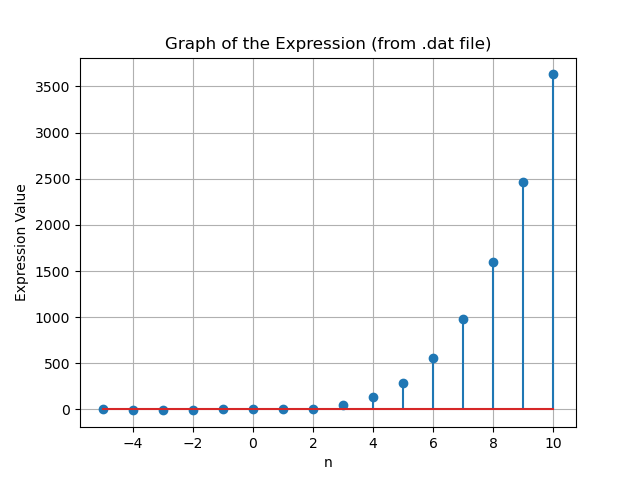
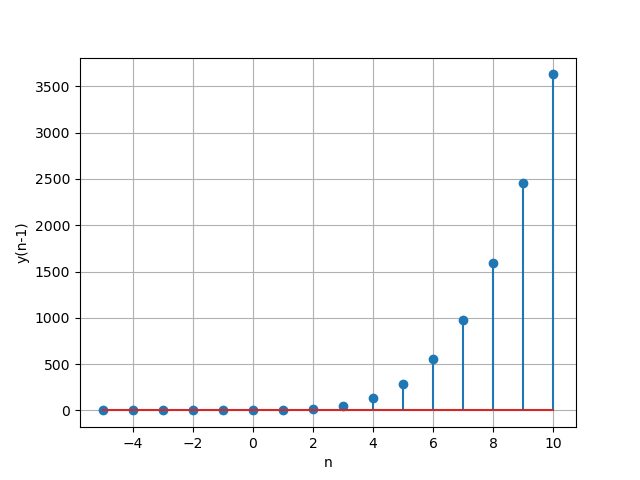
third commit

diff --git a/Assignment3/codes/plot.py b/Assignment3/codes/plot.py
@@ -1,25 +1,14 @@
 import matplotlib.pyplot as plt
+import numpy as np
 
-# Read data from the .dat file
-file_path = 'data3.dat'
-with open(file_path, 'r') as file:
-    lines = file.readlines()
+data = np.loadtxt('data3.dat')
 
-# Extract values from the file
-x_values = []
-y_values = []
-for line in lines:
-    if line.startswith('#') or not line.strip():
-        continue
-    n, expression_value = map(float, line.strip().split())
-    x_values.append(int(n))
-    y_values.append(expression_value)
+x_values, y_values = data[:, 0], data[:, 1]
 
 # Plot the graph
 plt.stem(x_values, y_values)
-plt.title('Graph of the Expression (from .dat file)')
 plt.xlabel('n')
-plt.ylabel('Expression Value')
+plt.ylabel('y(n-1)')
 plt.grid(True)
 plt.savefig('sumplot.png')
 plt.show()

diff --git a/Assignment3/codes/sum.c b/Assignment3/codes/sum.c
@@ -1,8 +1,9 @@
 #include <stdio.h>
+#include<math.h>
 
 // Define the function
 double expression(int n) {
-    return (n * n * (n - 1) * (n - 1) / 4.0) + (5.0 * n * (n - 1) * (2 * n - 1) / 6.0) + (4.0 * n * (n - 1) / 2.0);
+    return ((n * n * (n - 1) * (n - 1) / 4.0) + (5.0 * n * (n - 1) * (2 * n - 1) / 6.0) + (4.0 * n * (n - 1) / 2.0)) * (n > 0);
 }
 
 int main() {
@@ -18,10 +19,9 @@ int main() {
     }
 
     // Generate and store x_values and y_values in the .dat file
-    fprintf(file, "# n\tExpression Value\n");
     for (int n = start_n; n <= end_n; ++n) {
         double y_value = expression(n);
-        fprintf(file, "%d\t%lf\n", n, y_value);
+        fprintf(file, "%d\t%lf\n", n, fabs(y_value));
     }
 
     // Close the file

diff --git a/Assignment3/math.11.9.4.8.tex b/Assignment3/math.11.9.4.8.tex
@@ -82,7 +82,7 @@ Using contour integration for inverse Z transformation,
         &= \frac{5(n+1)(n)(n-1)}{3!} + \frac{5n(n-1)(n-2)}{3!}\\
         R_3 &=\frac{1}{2!}\lim\limits_{z\to 1}\frac{d^2}{dz^2} \brak{(z-1)^3 \frac{4z^n}{\brak{z-1}^3}}\\
         &= \frac{4n(n-1)}{2!}\\
-        \implies y(n) &= R_1 + R_2 + R_3 \\
+        \implies y(n-1) &= R_1 + R_2 + R_3 \\
         &= \frac{n^2(n-1)^2}{4} + \frac{5n(n-1)(2n-1)}{6} + \frac{4n(n-1)}{2}
     \end{align}
 

diff --git a/Assignment3/tables/table1.tex b/Assignment3/tables/table1.tex
@@ -2,6 +2,8 @@
 \hline
 \textbf{Parameter} & \textbf{Description} & \textbf{Value} \\
 \hline
-$x(n)$ & $n^{th}$ term of discrete signal & $n(n+1)(n+4)u(n)$\\
+$x(n)$ & $n^{th}$ term of series & $n(n+1)(n+4)u(n)$\\
+\hline
+$y(n-1)$ & sum to n terms of series or & \\&sum to $(n-1)^{th}$ term of series&\\
 \hline
 \end{tabular}
